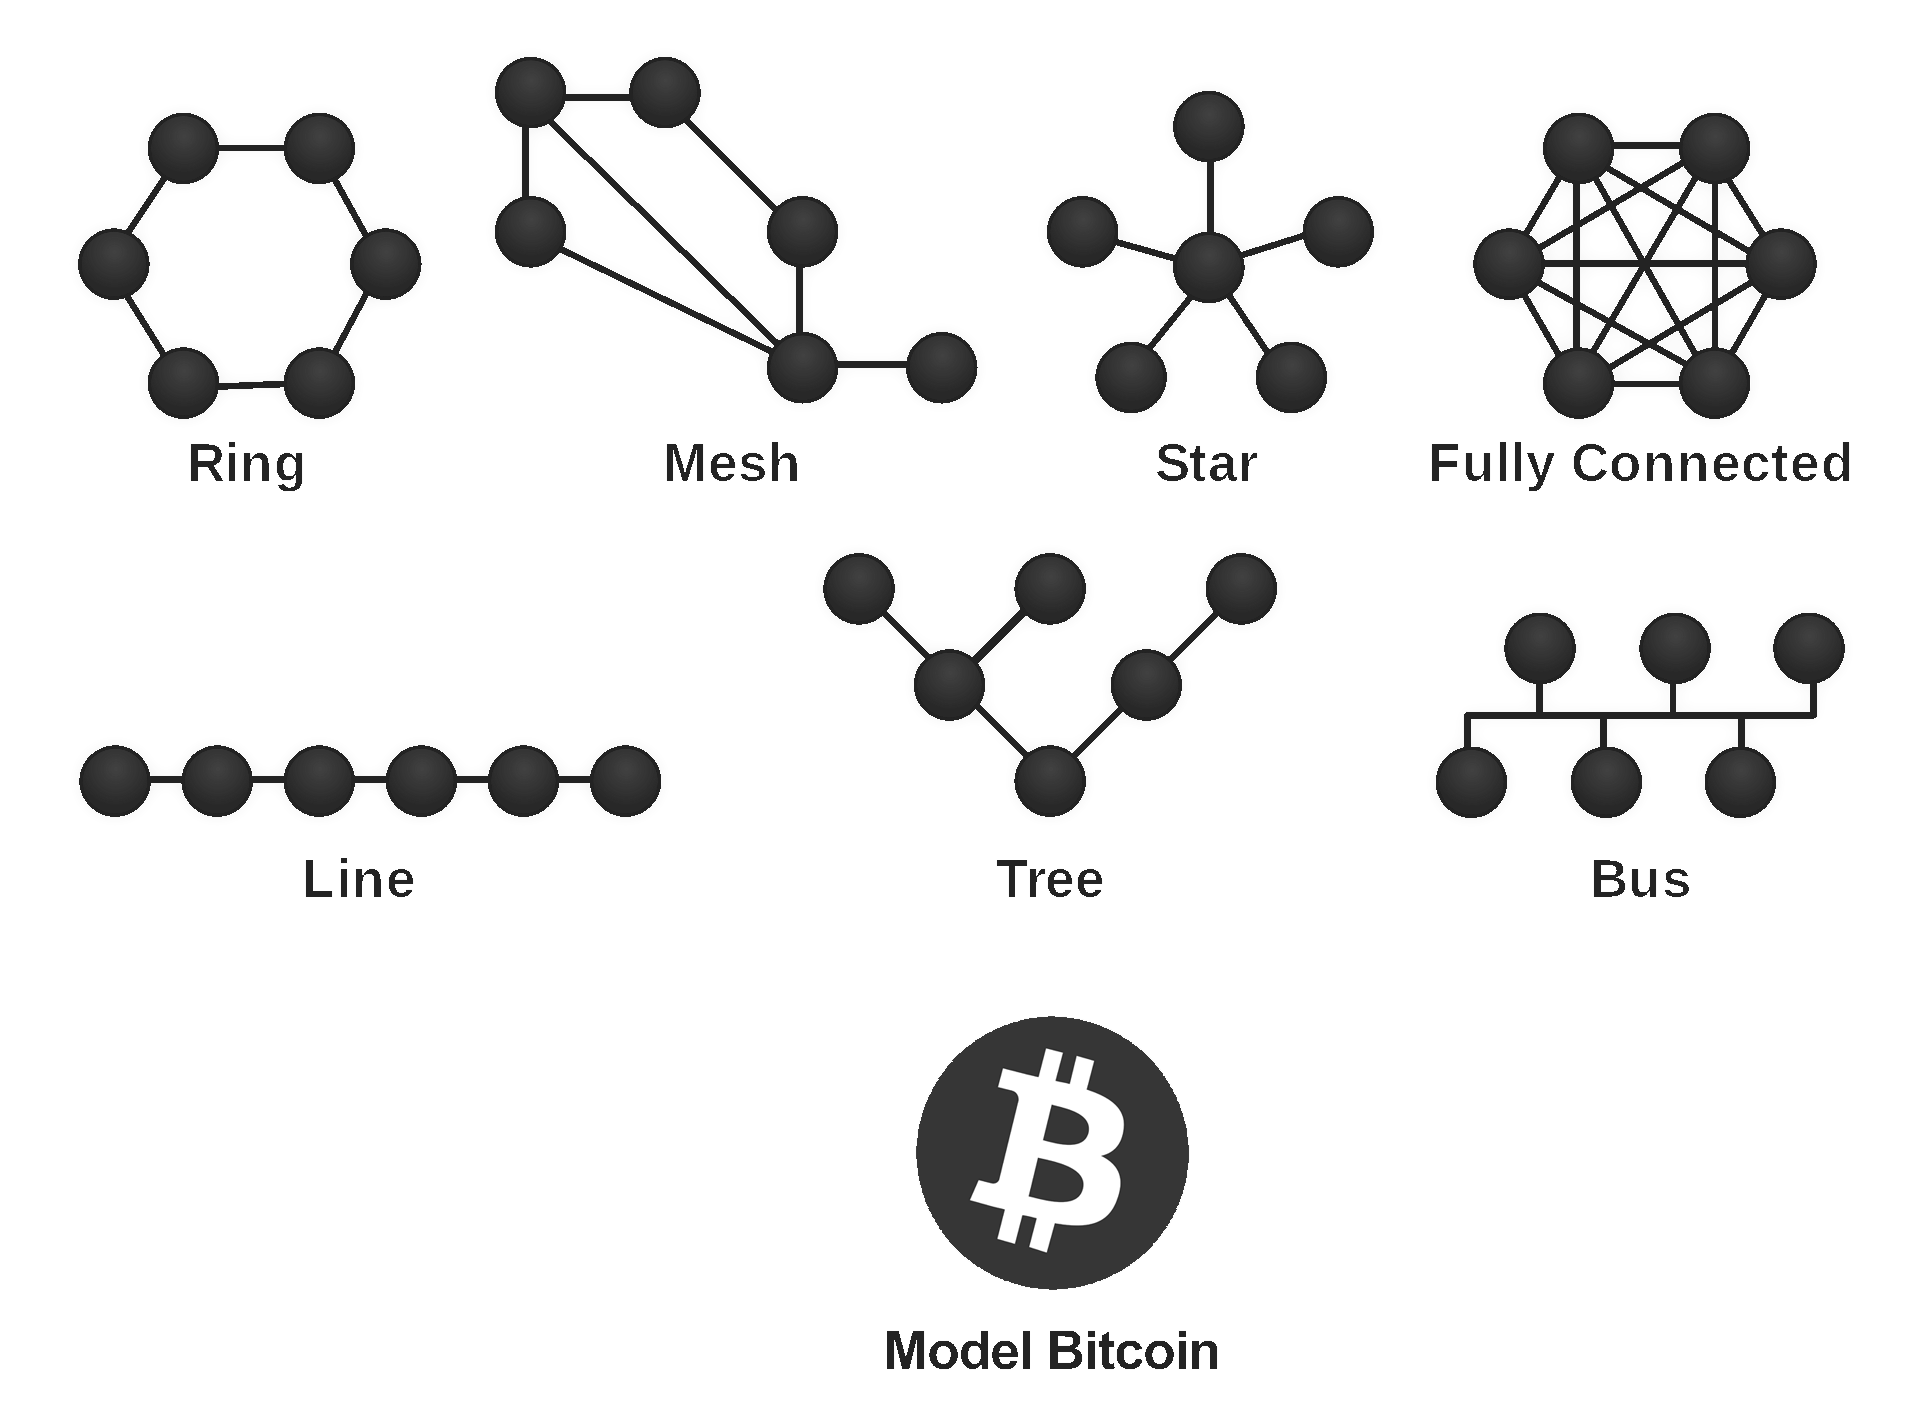
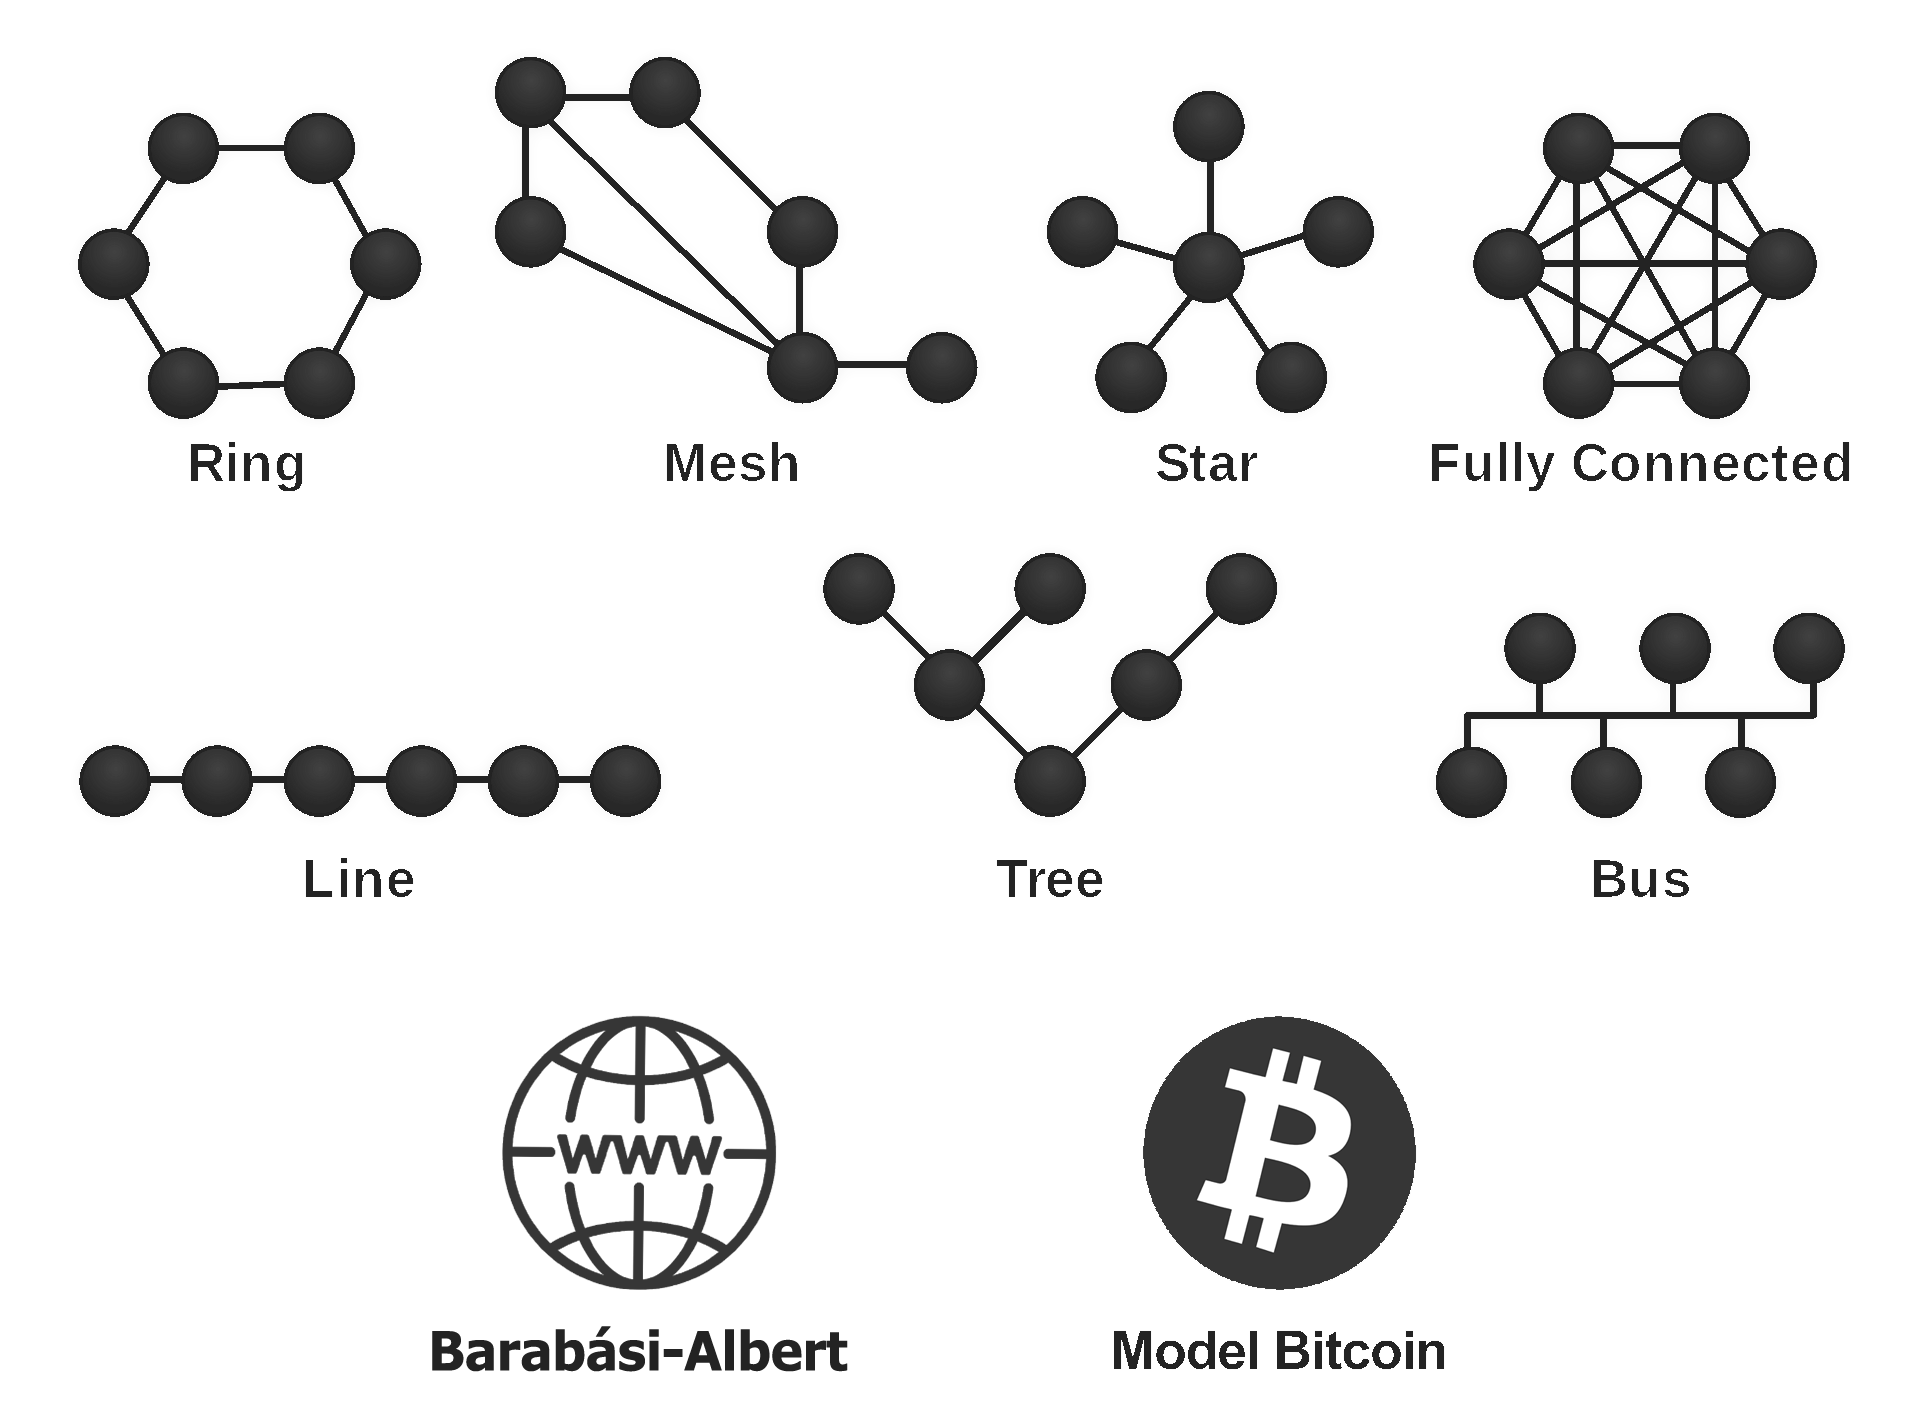
Added Barabási-Albert model

Changed region(s): [[0.2188, 0.7167, 0.75, 0.9972]]

diff --git a/index.html b/index.html
@@ -338,7 +338,8 @@
 							<area shape='rect' coords='10, 527, 740, 931' alt='Line' onclick='DOM_selectTopology("Line")'>
 							<area shape='rect' coords='761, 527, 1367, 931' alt='Tree' onclick='DOM_selectTopology("Tree")'>
 							<area shape='rect' coords='1388, 527, 1910, 931' alt='Bus' onclick='DOM_selectTopology("Bus")'>
-							<area shape='rect' coords='10, 958, 1910, 1412' alt='Line' onclick='DOM_selectTopology("Bitcoin")'>
+							<area shape='rect' coords='10, 958, 955, 1412' alt='Barabási-Albert' onclick='DOM_selectTopology("Barabási-Albert")'>
+							<area shape='rect' coords='965, 958, 1910, 1412' alt='Bitcoin' onclick='DOM_selectTopology("Bitcoin")'>
 						</map>
 					</div>
 				</div>
@@ -2417,6 +2418,26 @@
 				};
 				break;
 
+			case 'Barabási-Albert':
+				alert('Please be aware that this feature is still under development.')
+				options = {
+					'Type': topology,
+					'Number of peers': 10,
+					'Initial edges, m0': 1,
+					'Edges, m': 1,
+					'Minimum power (hashes per second)': 5,
+					'Maximum power (hashes per second)': 10,
+					'Minimum downlink (megabytes per second)': Infinity,
+					'Maximum downlink (megabytes per second)': Infinity,
+					'Minimum uplink (megabytes per second)': Infinity,
+					'Maximum uplink (megabytes per second)': Infinity,
+					'Minimum latency (milliseconds)': 100,
+					'Maximum latency (milliseconds)': 100,
+					'Naming cycle': ['A', 'B', 'C', 'D', 'E', 'F', 'G', 'H', 'I', 'J', 'K', 'L', 'M', 'N', 'O', 'P', 'Q', 'R', 'S', 'T', 'U', 'V', 'W', 'X', 'Y', 'Z']
+				};
+				break;
+
+
 			case 'Bitcoin':
 				options = {
 					'Type': topology,
@@ -2788,6 +2809,88 @@
 					}
 				}
 				break;
+
+			case 'Barabási-Albert':
+
+				nPeers = options['Number of peers'] ?? 20;
+				m0 = options['Initial edges, m0'] ?? 1;
+				m = options['Edges, m'] ?? 1;
+				minPower = options['Minimum power (hashes per second)'] ?? 5;
+				maxPower = options['Maximum power (hashes per second)'] ?? 10;
+				minDownlinkMBPS = options['Minimum downlink (megabytes per second)'] ?? Infinity;
+				maxDownlinkMBPS = options['Maximum downlink (megabytes per second)'] ?? Infinity;
+				minUplinkMBPS = options['Minimum uplink (megabytes per second)'] ?? Infinity;
+				maxUplinkMBPS = options['Maximum uplink (megabytes per second)'] ?? Infinity;
+				minLatency = options['Minimum latency (milliseconds)'] ?? 100;
+				maxLatency = options['Maximum latency (milliseconds)'] ?? 100;
+				names = options['Naming cycle'] ?? ['A', 'B', 'C', 'D', 'E', 'F', 'G', 'H', 'I', 'J', 'K', 'L', 'M', 'N', 'O', 'P', 'Q', 'R', 'S', 'T', 'U', 'V', 'W', 'X', 'Y', 'Z'];
+				
+				miners = [];
+				chosenNames = [];
+				for(let i = 0; i < nPeers; i++) {
+					let name = names[i % names.length];
+					if(nPeers > names.length) name += '1';
+					if(chosenNames[name] !== undefined) {
+						let count = 2;
+						do {
+							name = names[i % names.length] + count.toString();
+							count++;
+						} while(chosenNames[name] !== undefined);
+					}
+					chosenNames[name] = true;
+					let power = rnd(minPower, maxPower);
+					let latency = rnd(minLatency, maxLatency);
+					let downlinkMBPS = rnd(minDownlinkMBPS, maxDownlinkMBPS);
+					let uplinkMBPS = rnd(minUplinkMBPS, maxUplinkMBPS);
+					miners.push(newMiner(name, power, latency, downlinkMBPS, uplinkMBPS, true));
+				}
+
+				// Add the initial m0 connections
+				if(miners.length > 0) {
+					for(let i = 0; i < m0; i++) {
+						let r = rnd(0, miners.length - 1);
+						// Attempt to connect to a unique connections at most 10 times
+						if(miners[0].ID == miners[r].ID || miners[0].outgoingPeers[miners[r].ID] !== undefined) r = rnd(0, miners.length - 1);
+						if(miners[0].ID == miners[r].ID || miners[0].outgoingPeers[miners[r].ID] !== undefined) r = rnd(0, miners.length - 1);
+						if(miners[0].ID == miners[r].ID || miners[0].outgoingPeers[miners[r].ID] !== undefined) r = rnd(0, miners.length - 1);
+						if(miners[0].ID == miners[r].ID || miners[0].outgoingPeers[miners[r].ID] !== undefined) r = rnd(0, miners.length - 1);
+						if(miners[0].ID == miners[r].ID || miners[0].outgoingPeers[miners[r].ID] !== undefined) r = rnd(0, miners.length - 1);
+						if(miners[0].ID == miners[r].ID || miners[0].outgoingPeers[miners[r].ID] !== undefined) r = rnd(0, miners.length - 1);
+						if(miners[0].ID == miners[r].ID || miners[0].outgoingPeers[miners[r].ID] !== undefined) r = rnd(0, miners.length - 1);
+						if(miners[0].ID == miners[r].ID || miners[0].outgoingPeers[miners[r].ID] !== undefined) r = rnd(0, miners.length - 1);
+						if(miners[0].ID == miners[r].ID || miners[0].outgoingPeers[miners[r].ID] !== undefined) r = rnd(0, miners.length - 1);
+
+						if(preventDuplicateConnections && (miners[0].ID == miners[r].ID || miners[0].outgoingPeers[miners[r].ID] !== undefined)) continue;
+
+						miners[0].addConnection(miners[r].ID);
+					}
+				}
+
+				// Todo:
+				for(let i = 0; i < miners.length; i++) {
+					sumEdges = 0
+					connCount = 0
+					for(let j = 0; j < i; j++) {
+						let numEdges = network.peers[miners[j].ID].incomingPeers.length;
+						sumEdges += numEdges;
+
+						let p = numEdges / sumEdges;
+
+						if(Math.random() < p) {
+							miners[i].addConnection(miners[j].ID);
+							connCount++;
+							if(connCount >= m) break;
+						}
+					}
+					if(i > 0 && miners[i].outgoingPeers[miners[i - 1].ID] === undefined) {
+						miners[i].addConnection(miners[i - 1].ID);
+					}
+				}
+				miners[miners.length - 1].addConnection(miners[0].ID);
+				if(bidirectional) miners[0].addConnection(miners[miners.length - 1].ID);
+				break;
+
+
 
 			case 'Bitcoin':
 				nPeers = options['Number of peers'] ?? 100;
